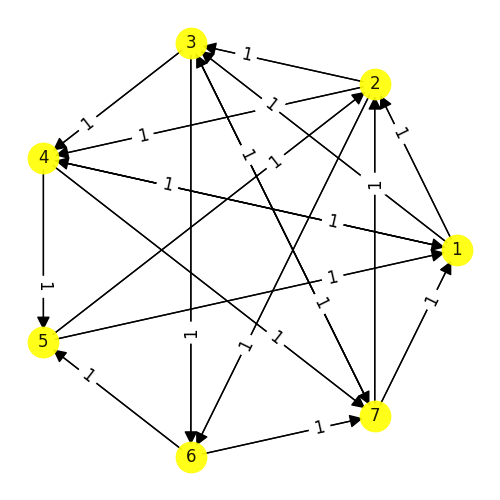
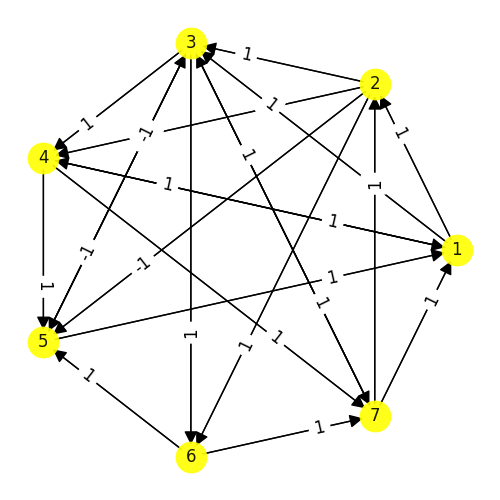
savess

diff --git a/4dweb.py b/4dweb.py
@@ -93,14 +93,36 @@ def Sduality(X,F,p,Wi):
         else:
             Wn[','.join(aterm)] = 1
     W = [key for key,value in Wn.items() if value==1]
-
+    
     for m in addedmeson:
         if m not in ','.join(W):
             mt=[int(s) for s in m if s.isdigit()]
             Mn[mt[0]-1,mt[1]-1]-=1
             Xn[mt[1]-1,mt[0]-1]-=1
 
-    return Xn,F, W
+    toric = {}
+    allterms = ','.join(W)
+    nopartner = []
+    for X in allterms.split(','):
+        if X in toric:
+            toric[X] +=1
+        else:
+            toric[X] = 1
+
+    for key,val in toric.items():
+        if val!=2:
+            nopartner += [key]
+    
+    for i,f1 in enumerate(nopartner):
+        for j,f2 in enumerate(nopartner):
+            n1= [int(s) for s in f1 if s.isdigit()]
+            n2 = [int(s) for s in f2 if s.isdigit()]
+            if i!=j and np.array_equal(n1,n2):
+                wtemp = '+'.join(W)
+                wtemp = wtemp.replace(f1,f2)
+                W = wtemp.split('+')
+
+    return Xn+Mn,F, W
 
 #%%
 def suppottest(W):
@@ -223,24 +245,27 @@ def FindPhases(X: np.array,F: np.array,W:list) -> np.array:
         return False
 
     for phase in DualityWeb:
-        Xt,Ft,Wt = phase[0].copy(),phase[1].copy(),phase[2].copy()
+        try:
+            Xt,Ft,Wt = phase[0].copy(),phase[1].copy(),phase[2].copy()
 
-        print('Dweb Length: '+str(len(DualityWeb)),end="\r")
+            print('Dweb Length: '+str(len(DualityWeb)),end="\r")
 
-        if len(DualityWeb)>100:
+            if len(DualityWeb)>100:
+                break
+            
+            # if anomalies(Xt,Ft):
+            #     print('Anomaly Found')
+            #     break
+
+            for n in range(len(Xt)):
+                if np.sum(np.transpose(Xt)[n])+np.sum(Xt[n])==4:
+                    Xi,Fi,Wi = Sduality(Xt, Ft, n, Wt)
+                    if np.trace(Xi)==0 and np.trace(Fi)==0:
+                        TrialityMaps += [[(Xt,Ft),(Xi,Fi),n+1]]
+                        if not inweb(Xi,Fi,DualityWeb):
+                            DualityWeb += [(Xi,Fi,Wi)]
+        except:
             break
-        
-        # if anomalies(Xt,Ft):
-        #     print('Anomaly Found')
-        #     break
-
-        for n in range(len(Xt)):
-            if np.sum(np.transpose(Xt)[n])+np.sum(Xt[n])==4:
-                Xi,Fi,Wi = Sduality(Xt, Ft, n, Wt)
-                if np.trace(Xi)==0 and np.trace(Fi)==0:
-                    TrialityMaps += [[(Xt,Ft),(Xi,Fi),n+1]]
-                    if not inweb(Xi,Fi,DualityWeb):
-                        DualityWeb += [(Xi,Fi,Wi)]
 
         
 
@@ -290,8 +315,7 @@ W = W.replace(' ','')
 W = W.replace('X',',X')
 W = [w[1:] for w in W.split('+')]
 
-dweb = Sduality(p4b,p4b-p4b,5,W)
-dweb2 = Sduality(dweb[0],dweb[1],5,dweb[2])
+dweb = FindPhases(p4b,p4b-p4b,W)[0]
 
 
[1 lines of base64/hex data omitted]

diff --git a/sphases.py b/sphases.py
@@ -156,7 +156,22 @@ def plot_web(X: np.array, fn: str):
     generate_quiver_diagram(black_line_mtx, k_edge_labels_dict, "k", fname=fn)
     return
 
+text = ''
 for pi,phase in enumerate(dweb):
     plot_web(phase[0],fn=str(pi))
+    text+= '''
+|<img src="./''' 
+    text += str(pi)
+    text+='''.png" width="200" height="200"> |
+|---|
+|Phase '''
+    text+= str(pi+1)
+    text+= '|'
+    Wstr = '+'.join(phase[-1])
+    Wstr = Wstr.replace(',',' ')
+    text+= '\n\nSuperpotential: ' + str(pi+1) +'\n' + Wstr+'\n\n'
 
+f=open('README2.md','w')
+f.write(text)
+f.close()
 # %%

diff --git a/p4b/README.md b/p4b/README.md
@@ -1,30 +1,32 @@
-# Model 2 #
 
 |<img src="./0.png" width="200" height="200"> |
 |---|
 |Phase 1|
 
-X12 X25 X51+X13 X34 X41+X14 X47 X71
-+X24 X45 X52+X35 X56 X63+X12 X24 X41
-+X13 X37 X71+X14 X45 X51+X23 X35 X52
-+X25 X56 X62+X23 X37 X76 X62
-+X34 X47 X76 X63+X52 X26 X65+X31 X17 X73
+Phase 1
+X12 X25 X51+X13 X34 X41+X14 X47 X71+X24 X45 X52+X35 X56 X63+X12 X24 X41+X13 X37 X71+X14 X45 X51+X23 X35 X52+X25 X56 X62+X23 X37 X76 X62+X34 X47 X76 X63
+
 
 |<img src="./1.png" width="200" height="200"> |
 |---|
 |Phase 2|
 
-X12 X25 X51+X13 X34 X41+X14 X47 X71
-+X24 X45 X52+X12 X24 X41+X13 X37 X71
-+X14 X45 X51+X23 X37 X72+X34 X47 Y73
-+X52 X26 X65+X72 X26 X67+Y73 Y36 Y67
+Phase 2
+X13 X34 X41+X14 X47 X71+X24 X45 X52+X12 X24 X41+X13 X37 X71+X14 X45 X51+X23 X37 X72+X34 X47 X73+X51 X12 Y26 Y65+X52 X23 X36 Y65+X72 Y26 X67+X73 X36 X67
+
 
 |<img src="./2.png" width="200" height="200"> |
 |---|
 |Phase 3|
 
-X12 X25 X51+X24 X45 X52+X35 X56 X63
-+X12 X24 X41+X23 X35 X52+X25 X56 X62
-+X23 Y36 X62+X34 Y46 X63+X52 X26 X65
-+X31 X17 X73+Y36 Y67 Y73+X41 X17 X74
-+Y46 Y67 Y74
+Phase 3
+X14 X47 X71+X24 X45 X52+X13 X37 X71+X14 X45 X51+X23 X37 X72+X34 X47 X73+X51 X16 Y65+X52 X23 X36 Y65+Y13 Y32 Y21+X13 X34 Y42 Y21+Y15 Y52 Y21+X16 X62 Y21+Y73 Y32 Y27+X74 Y42 X27+Y75 Y52 Y27+X73 X36 X62 X27
+
+
+|<img src="./3.png" width="200" height="200"> |
+|---|
+|Phase 4|
+
+Phase 4
+X13 X34 X41+X14 X47 X71+X24 X45 X52+X12 X24 X41+X13 X37 X71+X14 X45 X51+X51 X12 X25+X52 X23 X35+X25 X56 X62+X23 X37 X76 X62+X35 X56 X63+X34 X47 X76 X63
+
